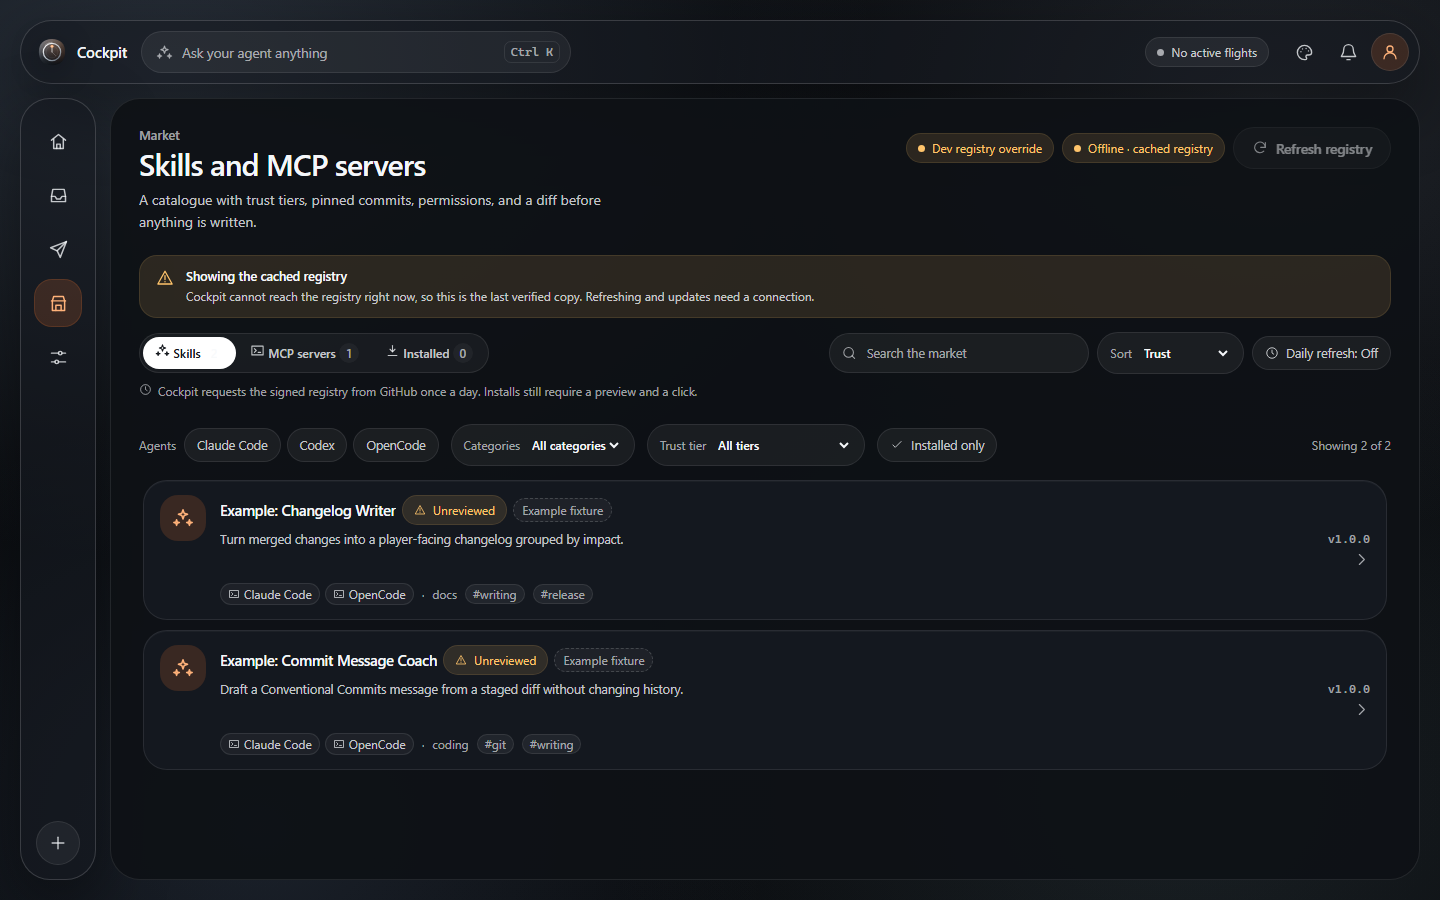
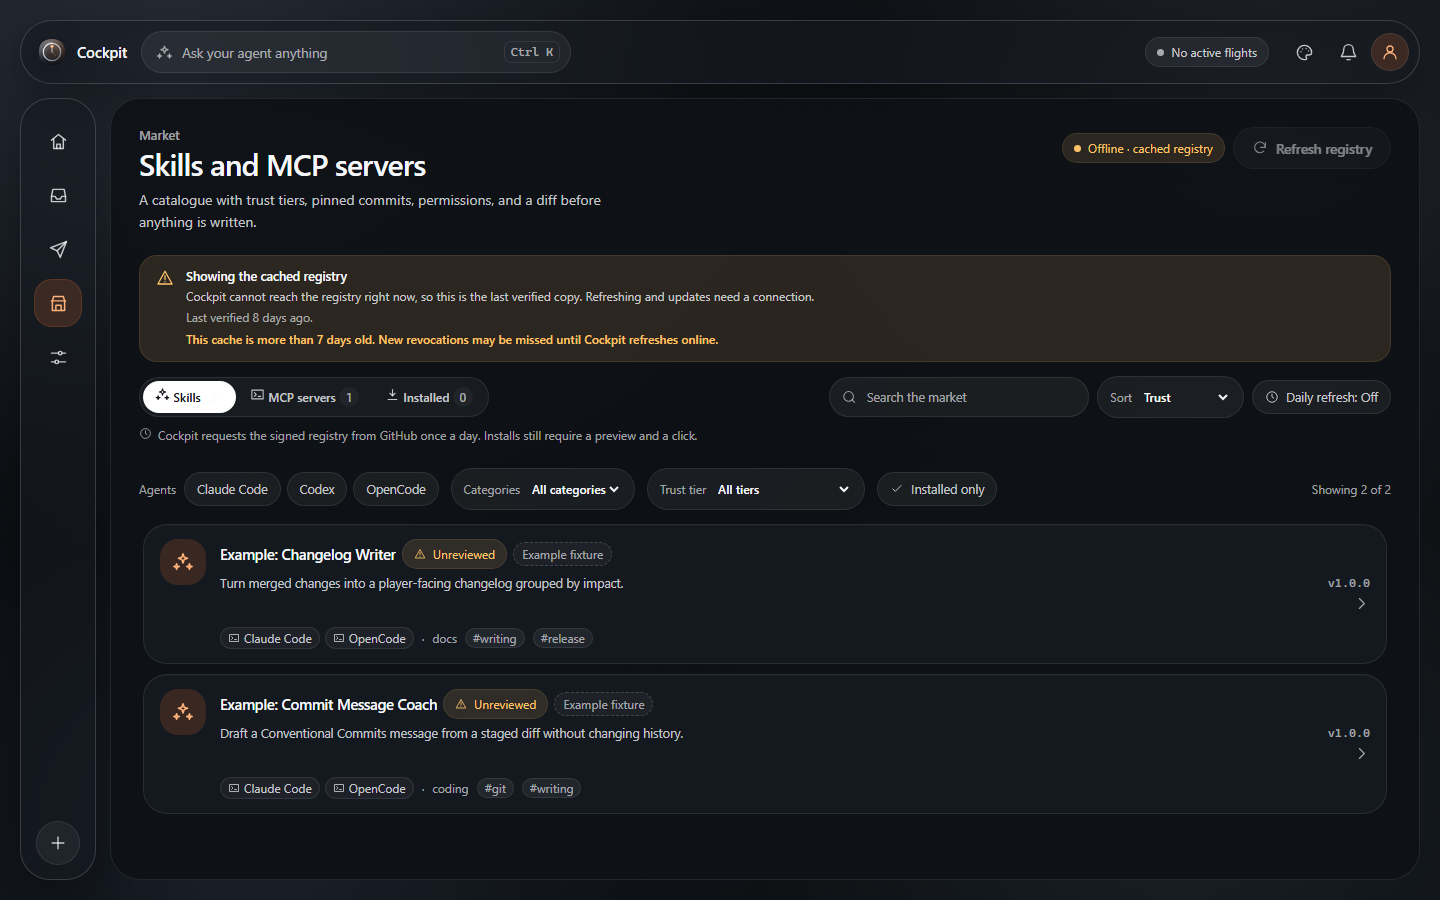
fix: report cache age and stale revocations offline

diff --git a/ui/tests/e2e/market.spec.ts b/ui/tests/e2e/market.spec.ts
@@ -21,7 +21,11 @@ const MCP_ID = 'example-weather';
 const SKILL_NAME = 'Example: Changelog Writer';
 const MCP_NAME = 'Example: Weather MCP';
 
-async function openMarket(page: Page, daemon = MARKET_DAEMON): Promise<void> {
+async function openMarket(
+  page: Page,
+  daemon = MARKET_DAEMON,
+  { devOverride = true }: { devOverride?: boolean } = {},
+): Promise<void> {
   await page.addInitScript((daemonUrl) => {
     window.__cockpitDaemonUrl = daemonUrl;
     try {
@@ -32,7 +36,11 @@ async function openMarket(page: Page, daemon = MARKET_DAEMON): Promise<void> {
   }, daemon);
   await page.goto('/market');
   await expect(page.getByRole('heading', { name: 'Skills and MCP servers' })).toBeVisible();
-  await expect(page.getByTestId('market-dev-override')).toHaveText('Dev registry override');
+  if (devOverride) {
+    await expect(page.getByTestId('market-dev-override')).toHaveText('Dev registry override');
+  } else {
+    await expect(page.getByTestId('market-dev-override')).toHaveCount(0);
+  }
   await expect(page.getByTestId(`market-card-${SKILL_ID}`)).toBeVisible();
 }
 
@@ -223,9 +231,13 @@ test('mcp secret, config diff, install and undo', async ({ page }) => {
 });
 
 test('offline registry shows the cached banner and blocks refresh', async ({ page }) => {
-  await openMarket(page, OFFLINE_DAEMON);
+  await openMarket(page, OFFLINE_DAEMON, { devOverride: false });
   await expect(page.getByTestId('market-offline')).toBeVisible();
   await expect(page.getByTestId('market-offline')).toContainText('Showing the cached registry');
+  await expect(page.getByTestId('market-cache-age')).toContainText('Last verified 8 days ago');
+  await expect(page.getByTestId('market-cache-stale')).toContainText(
+    'New revocations may be missed',
+  );
   await expect(page.getByRole('button', { name: 'Refresh registry' })).toBeDisabled();
   await shot(page, 'market-offline.png');
 });

diff --git a/ui/src/lib/screens/MarketScreen.svelte b/ui/src/lib/screens/MarketScreen.svelte
@@ -329,6 +329,15 @@
     return t(keys[source]);
   }
 
+  function cacheAgeLabel(seconds: number): string {
+    if (seconds < 60) return t('common.justNow');
+    const minutes = Math.round(seconds / 60);
+    if (minutes < 60) return t('market.minutesAgo', { count: minutes });
+    const hours = Math.round(minutes / 60);
+    if (hours < 24) return t('market.hoursAgo', { count: hours });
+    return t('market.daysAgo', { count: Math.round(hours / 24) });
+  }
+
   function scopeLabel(scope: InstallScope): string {
     return t(scope === 'user' ? 'market.scopeUser' : 'market.scopeProject');
   }
@@ -610,6 +619,16 @@
     <div>
       <strong>{t('market.offlineTitle')}</strong>
       <p>{t('market.offlineBody')}</p>
+      {#if catalog.cacheAgeSeconds != null}
+        <p class="market-offline-age" data-testid="market-cache-age">
+          {t('market.lastVerified', { age: cacheAgeLabel(catalog.cacheAgeSeconds) })}
+        </p>
+      {/if}
+      {#if catalog.cacheStale}
+        <p class="market-offline-stale" data-testid="market-cache-stale">
+          {t('market.cacheStale')}
+        </p>
+      {/if}
     </div>
   </section>
 {/if}

diff --git a/ui/src/lib/i18n/catalog.ts b/ui/src/lib/i18n/catalog.ts
@@ -332,6 +332,11 @@ const en = {
   'market.offlineTitle': 'Showing the cached registry',
   'market.offlineBody': 'Cockpit cannot reach the registry right now, so this is the last verified copy. Refreshing and updates need a connection.',
   'market.offlineShort': 'Offline · cached registry',
+  'market.lastVerified': 'Last verified {age}.',
+  'market.minutesAgo': { one: '{count} minute ago', other: '{count} minutes ago' },
+  'market.hoursAgo': { one: '{count} hour ago', other: '{count} hours ago' },
+  'market.daysAgo': { one: '{count} day ago', other: '{count} days ago' },
+  'market.cacheStale': 'This cache is more than 7 days old. New revocations may be missed until Cockpit refreshes online.',
   'market.errorTitle': 'The registry could not be loaded',
   'market.errorBody': 'Cockpit refused the registry instead of showing something it could not verify.',
   'market.emptyTitle': 'No entries in this category',

diff --git a/ui/src/app.css b/ui/src/app.css
@@ -6642,6 +6642,15 @@ html[data-glass-reason='reduced-transparency'] .panel {
   margin-top: 8px;
 }
 
+.market-banner .market-offline-age {
+  color: var(--text-faint);
+}
+
+.market-banner .market-offline-stale {
+  color: var(--warn);
+  font-weight: 600;
+}
+
 .market-banner--danger {
   border-color: var(--danger-soft);
   background: var(--danger-soft);

diff --git a/ui/src/lib/api/types.ts b/ui/src/lib/api/types.ts
@@ -608,6 +608,9 @@ export interface CatalogResponse {
   lastError?: string | null;
   settings: MarketSettings;
   counts: CatalogCounts;
+  cacheVerifiedAt?: string | null;
+  cacheAgeSeconds?: number | null;
+  cacheStale: boolean;
 }
 
 export interface ManualInstructions {

diff --git a/crates/cockpit-daemon/src/market/service.rs b/crates/cockpit-daemon/src/market/service.rs
@@ -34,6 +34,8 @@ pub const SETTINGS_FILE: &str = "settings.json";
 pub const DEFAULT_REGISTRY_URL: &str =
     "https://raw.githubusercontent.com/ganddtn40/cockpit/main/registry";
 pub const DAILY_REFRESH_SECS: i64 = 24 * 60 * 60;
+/// A cached registry older than this may miss new revocations.
+pub const CACHE_STALE_AFTER_SECS: i64 = 7 * 24 * 60 * 60;
 
 #[cfg(debug_assertions)]
 const BUNDLED_INDEX: &str = include_str!("../../../../registry/index.test.json");
@@ -136,6 +138,9 @@ pub struct CatalogResponse {
     pub last_error: Option<String>,
     pub settings: MarketSettings,
     pub counts: CatalogCounts,
+    pub cache_verified_at: Option<String>,
+    pub cache_age_seconds: Option<i64>,
+    pub cache_stale: bool,
 }
 
 #[derive(Debug, Clone, Serialize)]
@@ -324,7 +329,7 @@ impl MarketService {
         let mut state = self.state.lock().expect("market state");
         state.registry = Some(registry.clone());
         state.source = source;
-        state.offline = self.forced_offline;
+        state.offline = self.forced_offline || (source == RegistrySource::Cache && state.offline);
         state.warnings = warnings;
         Ok(registry)
     }
@@ -374,6 +379,31 @@ impl MarketService {
             },
         )?;
         Ok((Arc::new(registry), RegistrySource::Bundled, Vec::new()))
+    }
+
+    /// When the catalogue comes from the on-disk cache, report when that cache
+    /// was last verified. A successful refresh records `last_refresh`; older
+    /// caches without that setting fall back to the index file's mtime.
+    fn cache_verified_at(
+        &self,
+        source: RegistrySource,
+        last_refresh: Option<&str>,
+    ) -> Option<String> {
+        if source != RegistrySource::Cache {
+            return None;
+        }
+        if let Some(last) = last_refresh {
+            if DateTime::parse_from_rfc3339(last).is_ok() {
+                return Some(last.to_string());
+            }
+        }
+        let index = self
+            .home
+            .join("market")
+            .join("registry")
+            .join(ACTIVE_INDEX_FILE);
+        let modified = std::fs::metadata(index).ok()?.modified().ok()?;
+        Some(DateTime::<Utc>::from(modified).to_rfc3339())
     }
 
     async fn refresh_inner(&self) -> Result<(), MarketError> {
@@ -474,7 +504,32 @@ impl MarketService {
                 agents.insert(agent.clone());
             }
         }
-        let state = self.state.lock().expect("market state");
+        let (source, offline, mut warnings, settings, last_error) = {
+            let state = self.state.lock().expect("market state");
+            (
+                state.source,
+                state.offline || self.forced_offline,
+                state.warnings.clone(),
+                state.settings.clone(),
+                state.last_error.clone(),
+            )
+        };
+        let cache_verified_at = self.cache_verified_at(source, settings.last_refresh.as_deref());
+        let cache_age_seconds = cache_verified_at.as_deref().and_then(|value| {
+            DateTime::parse_from_rfc3339(value).ok().map(|time| {
+                Utc::now()
+                    .signed_duration_since(time.with_timezone(&Utc))
+                    .num_seconds()
+                    .max(0)
+            })
+        });
+        let cache_stale = cache_age_seconds.is_some_and(|age| age >= CACHE_STALE_AFTER_SECS);
+        if cache_stale {
+            let days = cache_age_seconds.unwrap_or_default() / 86_400;
+            warnings.push(format!(
+                "The cached registry was last verified {days} days ago. New revocations may be missed until Cockpit refreshes online."
+            ));
+        }
         let installed = manifests
             .iter()
             .filter(|manifest| manifest.state == InstallState::Installed)
@@ -488,11 +543,11 @@ impl MarketService {
                 .collect(),
             agents: agents.into_iter().collect(),
             generated_at: Some(registry.index.generated_at.clone()),
-            source: state.source,
-            offline: state.offline || self.forced_offline,
-            warnings: state.warnings.clone(),
-            last_error: state.last_error.clone(),
-            settings: state.settings.clone(),
+            source,
+            offline,
+            warnings,
+            last_error,
+            settings,
             counts: CatalogCounts {
                 skills: registry
                     .entries
@@ -506,6 +561,9 @@ impl MarketService {
                     .count(),
                 installed,
             },
+            cache_verified_at,
+            cache_age_seconds,
+            cache_stale,
         })
     }
 

diff --git a/crates/cockpit-daemon/tests/market.rs b/crates/cockpit-daemon/tests/market.rs
@@ -13,6 +13,8 @@ use std::panic::{AssertUnwindSafe, catch_unwind};
 use std::path::{Path, PathBuf};
 use std::sync::Arc;
 
+use chrono::{Duration, Utc};
+
 use cockpit_daemon::adapters;
 use cockpit_daemon::market::archive::{ExtractedFile, extract_tar_gz, tree_hash, verify_tree};
 use cockpit_daemon::market::config_edit::{self, ConfigFormat};
@@ -789,6 +791,89 @@ async fn offline_catalog_uses_the_verified_cache_and_fails_closed() {
         error,
         cockpit_daemon::market::MarketError::Signature(_)
     ));
+}
+
+#[tokio::test]
+async fn cache_age_is_reported_and_old_caches_warn_about_revocations() {
+    let home = tempfile::tempdir().unwrap();
+    let user_home = tempfile::tempdir().unwrap();
+    copy_dir(&registry_dir(), &home.path().join("market/registry"));
+    std::fs::create_dir_all(home.path().join("market")).unwrap();
+    let now = Utc::now();
+
+    let recent = now - Duration::days(3);
+    let recent_iso = recent.to_rfc3339();
+    std::fs::write(
+        home.path().join("market/settings.json"),
+        serde_json::to_vec(&json!({
+            "autoRefresh": false,
+            "lastRefresh": recent_iso,
+        }))
+        .unwrap(),
+    )
+    .unwrap();
+
+    let recent_service = service(home.path(), user_home.path(), None, None);
+    let catalog = recent_service.catalog(false).await.unwrap();
+    assert_eq!(catalog.source, RegistrySource::Cache);
+    assert!(catalog.offline);
+    assert_eq!(
+        catalog.cache_verified_at.as_deref(),
+        Some(recent_iso.as_str())
+    );
+    let age = catalog.cache_age_seconds.expect("cache age");
+    assert!((age - 3 * 86_400).abs() < 120, "{age}");
+    assert!(!catalog.cache_stale);
+    assert!(
+        !catalog
+            .warnings
+            .iter()
+            .any(|warning| warning.contains("revocations"))
+    );
+
+    let old = now - Duration::days(8);
+    std::fs::write(
+        home.path().join("market/settings.json"),
+        serde_json::to_vec(&json!({
+            "autoRefresh": false,
+            "lastRefresh": old.to_rfc3339(),
+        }))
+        .unwrap(),
+    )
+    .unwrap();
+
+    let stale = service(home.path(), user_home.path(), None, None);
+    let catalog = stale.catalog(false).await.unwrap();
+    let age = catalog.cache_age_seconds.expect("cache age");
+    assert!((age - 8 * 86_400).abs() < 120, "{age}");
+    assert!(catalog.cache_stale);
+    assert!(
+        catalog
+            .warnings
+            .iter()
+            .any(|warning| warning.contains("New revocations may be missed"))
+    );
+}
+
+#[tokio::test]
+async fn failed_refresh_never_deletes_the_verified_cache() {
+    let home = tempfile::tempdir().unwrap();
+    let user_home = tempfile::tempdir().unwrap();
+    let cache = home.path().join("market/registry");
+    copy_dir(&registry_dir(), &cache);
+    let before = std::fs::read(cache.join(ACTIVE_INDEX_FILE)).unwrap();
+
+    let service = service(home.path(), user_home.path(), None, None);
+    let error = service.refresh().await.unwrap_err();
+    assert!(error.to_string().contains("offline"), "{error}");
+    assert_eq!(
+        std::fs::read(cache.join(ACTIVE_INDEX_FILE)).unwrap(),
+        before
+    );
+
+    let catalog = service.catalog(false).await.unwrap();
+    assert_eq!(catalog.source, RegistrySource::Cache);
+    assert_eq!(catalog.entries.len(), 3);
 }
 
 #[tokio::test]

diff --git a/docs/security.md b/docs/security.md
@@ -389,7 +389,9 @@ untrusted input, not as a package manager. The full user-facing model is in
   whitespace) and verified against a public key embedded in the binary. The
   key id must match. Every entry file must match the SHA-256 in the signed
   index. Duplicate ids, an unknown path, or an index/YAML disagreement is
-  refused. A failed refresh never replaces the previous verified cache.
+  refused. A failed refresh never replaces or deletes the previous verified
+  cache, and an offline cache reports its age. After seven days the UI warns
+  that new revocations may be missed until the next successful refresh.
 - **Two trust roots.** Debug and test builds embed only the test public key and
   load `index.test.json` / `revoked.test.json`. Release builds embed only the
   production public key and load `index.json` / `revoked.json`. A release build
@@ -492,6 +494,8 @@ Evidence: `crates/cockpit-daemon/tests/market.rs`:
 `unverified_agents_get_manual_instructions_and_no_write`,
 `config_round_trip_preserves_comments_and_unknown_keys`,
 `offline_catalog_uses_the_verified_cache_and_fails_closed`,
+`cache_age_is_reported_and_old_caches_warn_about_revocations`,
+`failed_refresh_never_deletes_the_verified_cache`,
 `interrupted_install_is_rolled_back_from_the_journal`,
 `manifest_fuzzing_never_panics_and_rejects_escapes`,
 `tree_hash_is_order_independent_and_verifies`, and

diff --git a/docs/market.md b/docs/market.md
@@ -237,11 +237,16 @@ When it cannot reach the registry, it loads that cache and shows a banner:
 
 > Showing the cached registry. Cockpit cannot reach the registry right now, so
 > this is the last verified copy. Refreshing and updates need a connection.
+> Last verified 3 days ago.
 
-The catalogue and detail views still work. Refresh is disabled. A skill install
-still needs the pinned archive, so it fails cleanly if the source is not already
-available; an MCP configuration edit can be previewed from the cached entry. A
-failed refresh never replaces the cache.
+The age comes from the last successful refresh time, or the cache index file's
+mtime for older caches. Once the cache is more than seven days old, the banner
+adds: **This cache is more than 7 days old. New revocations may be missed until
+Cockpit refreshes online.** The catalogue and detail views still work. Refresh
+is disabled. A skill install still needs the pinned archive, so it fails cleanly
+if the source is not already available; an MCP configuration edit can be
+previewed from the cached entry. A failed refresh never replaces or deletes the
+cache.
 
 ![Offline cache](screenshots/phase8/market-offline.png)
 
